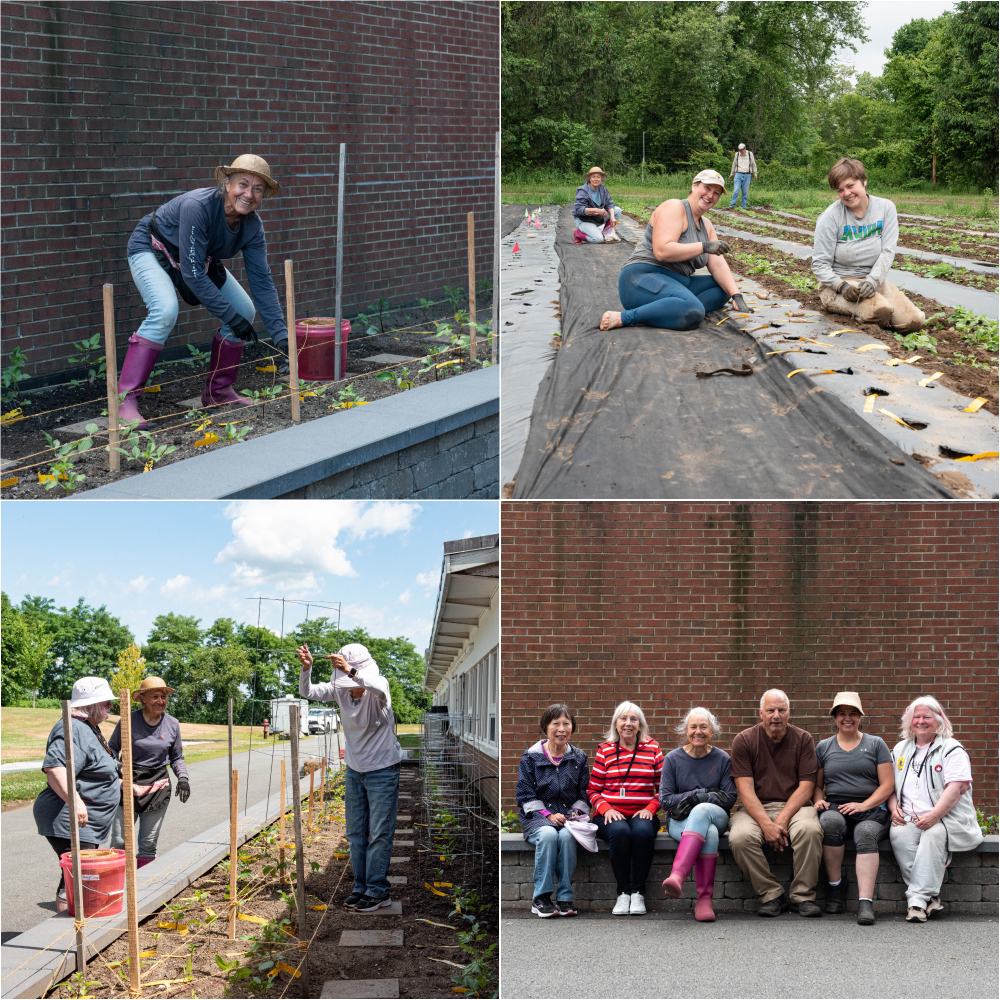
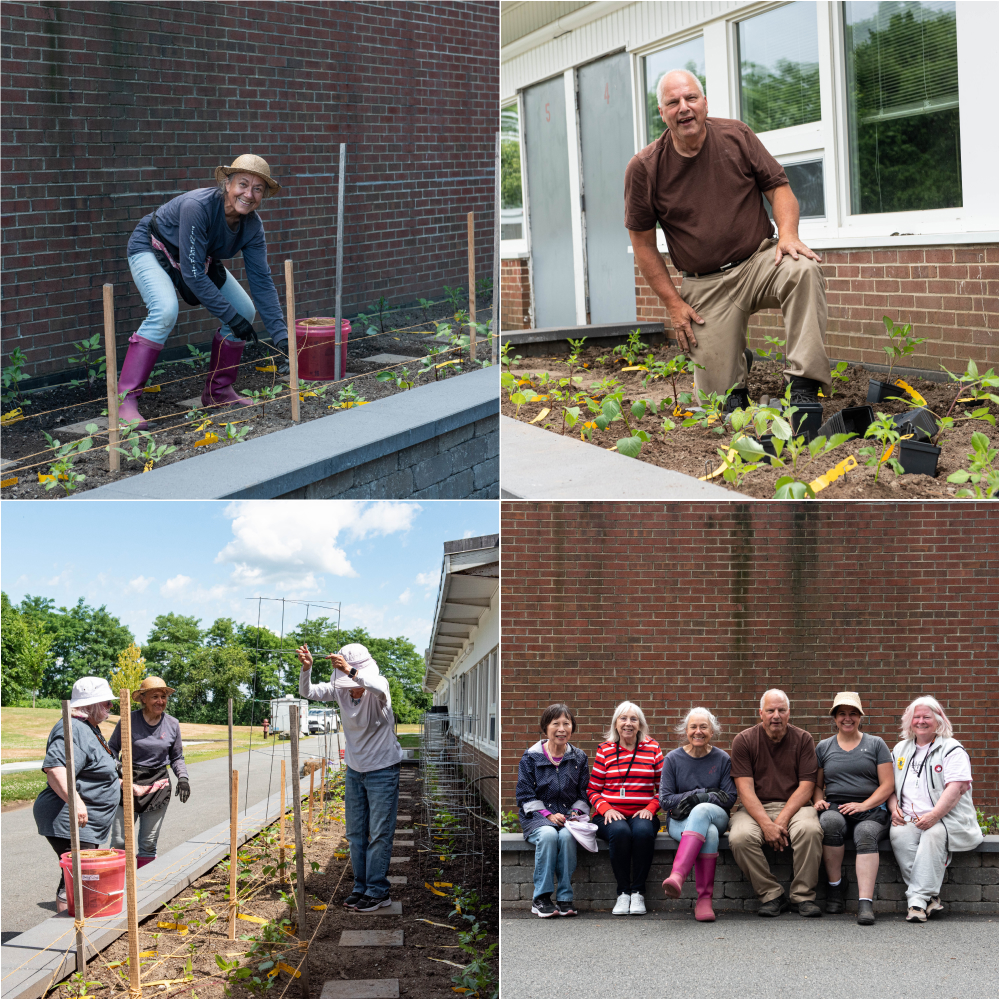
newsletter updates

Changed region(s): [[0.496, 0.0, 1.0, 0.496]]

diff --git a/202206/20220627_newsletter/20220627_newsletter.html b/202206/20220627_newsletter/20220627_newsletter.html
@@ -290,11 +290,11 @@
                               </p>
                               <hr class="divider" />
                               <p>
-                                We just had a fantastic Zoom meeting. Our
-                                special guests were dahlia virus expert Dr. Hanu
-                                Pappu of Washington State University, and Ron
-                                Miner, Chair of the ADS Virus Research Team. Dr.
-                                Pappu shared a wealth of information with us
+                                We just had a fantastic Zoom meeting in June.
+                                Our special guests were dahlia virus expert Dr.
+                                Hanu Pappu of Washington State University, and
+                                Ron Miner, Chair of the ADS Virus Research Team.
+                                Dr. Pappu shared a wealth of information with us
                                 about dahlia virus and the ways viruses can be
                                 transmitted from plant to plant, showed us
                                 photos of some of the most common symptoms of
@@ -317,20 +317,25 @@
                                 donation of $200 to the ADS Virus Research
                                 Project. We are glad to support the work of Dr.
                                 Pappu and his research lab at Washington State
-                                University, and the ADS Virus Research Team. We
-                                recorded the meeting and presentations for those
-                                of you who weren't able to attend or who want to
-                                see it again, and we recommend it. So much good
-                                information was shared. The recording is now
-                                available in our 2022 past Zoom recordings
-                                folder.** Concluding the program YDS raffled off
-                                a pair of Flart Silky Teflon Floral Snips to a
-                                lucky member who attended the meeting, as part
-                                of the effort to promote the practice of
-                                disinfecting our tools between plants. Amy Liss
-                                was the lucky winner of the Flart Floral Snips.
-                                Nice score, Amy!
+                                University, and the ADS Virus Research Team.
+                                Concluding the program YDS raffled off a pair of
+                                Flart Silky Teflon Floral Snips to a lucky
+                                member who attended the meeting, as part of the
+                                effort to promote the practice of disinfecting
+                                our tools between plants. Amy Liss was the lucky
+                                winner of the Flart Floral Snips. Nice score,
+                                Amy!
                               </p>
+                              <p>
+                                We recorded the meeting and presentations for
+                                those of you who weren't able to attend or who
+                                want to see it again, and we recommend it. So
+                                much good information was shared. The recording
+                                is now available in our 2022 past Zoom
+                                recordings folder.*
+                              </p>
+                              <img src="intro-3.jpg" width="100%" />
+                              <hr class="divider" />
                               <img src="intro-2.jpg" width="100%" />
                               <hr class="divider" />
                               <p>
@@ -377,10 +382,13 @@
                               <p>
                                 <small
                                   ><em
-                                    >**Not sure how to access our 2022 Zoom
-                                    recordings folder? Send us an email Subject
-                                    Line: I’d like to watch the presentation by
-                                    Dr. Pappu</em
+                                    >*Need help accessing the Zoom recordings
+                                    folder? Send us an email Subject Line: I’d
+                                    like to watch the presentation by Dr.
+                                    PappuNeed help accessing the Zoom recordings
+                                    folder? Send us an email Subject Line: I’d
+                                    like to watch the presentation by Dr.
+                                    Pappu</em
                                   ></small
                                 >
                               </p>
@@ -397,8 +405,8 @@
                                 July 16th Meeting
                               </h4>
                               <h1>
-                                Garden Tour: Lilies and Early Dahlias with YDS
-                                Member Roy Christoph
+                                Early Dahlia Garden Preview & Lily Garden Tour
+                                with YDS Member Roy Christoph
                               </h1>
                               <img
                                 src="lily-garden.jpg"
@@ -406,7 +414,12 @@
                                 style="margin-top: 1rem"
                               />
                               <p>
-                                <small><em>Photo by Misty Florez</em></small>
+                                <small
+                                  ><em
+                                    >Photos by Misty Florez and Roy
+                                    Christoph</em
+                                  ></small
+                                >
                               </p>
                               <hr class="divider" />
                               <p>
@@ -447,7 +460,13 @@
                               </p>
                               <p class="event__details">
                                 <strong>Date & Time:</strong> Saturday, July
-                                16th, *10:00am - 1:45pm (EST)
+                                16th*, 10:00am - 1:30pm (EST)<br />
+                                <em
+                                  >*Please note the change of date to a week
+                                  earlier. The lilies are opening up quickly and
+                                  we want to see them at peak bloom. Hope you
+                                  can make it!</em
+                                >
                               </p>
                               <p class="event__details">
                                 <strong>Rain Date:</strong>
@@ -548,7 +567,7 @@
                                     fill="#c65a60"
                                     style="fill: #c65a60"
                                   />
-                                  @flowersat60worcester</a
+                                  flowersat60worcester</a
                                 >
                               </p>
                               <p>
@@ -916,7 +935,7 @@
                               <img src="experiment-a.jpg" width="100%" />
                               <p>
                                 <small
-                                  ><b>A: Root Riot Cubes</b><br />
+                                  ><b>Root Riot Cubes</b><br />
                                   <em>Photo by Andrea Campbell</em></small
                                 >
                               </p>
@@ -925,7 +944,7 @@
                               <p>
                                 <small
                                   ><b
-                                    >B: Gary Miner’s Recipe Mix: ⅓ play sand, ⅓
+                                    >Gary Miner’s Recipe Mix: ⅓ play sand, ⅓
                                     perlite, ⅓ vermiculite</b
                                   ><br />
                                   <em>Photo by Andrea Campbell</em></small
@@ -935,7 +954,7 @@
                               <img src="experiment-c.jpg" width="100%" />
                               <p>
                                 <small
-                                  ><b>C: Stonewool Starter Cubes</b><br />
+                                  ><b>Stonewool Starter Cubes</b><br />
                                   <em>Photo by Andrea Campbell</em></small
                                 >
                               </p>
@@ -982,29 +1001,12 @@
                             <td>
                               <h1 style="margin-bottom: 1rem">
                                 Member Post from Social Media:
-                                @raine.brings.flowers (Taliesin Amero; Windsor,
-                                Maine)
+                                @raine.brings.flowers
                               </h1>
-                              <img src="tali-amero-1.jpg" width="100%" />
-                              <p>
-                                <small><b>May 14th</b><br /> </small>
-                              </p>
-                              <hr class="divider" />
-                              <img src="tali-amero-2.jpg" width="100%" />
-                              <p>
-                                <small><b>May 24th</b><br /> </small>
-                              </p>
-                              <hr class="divider" />
-                              <img src="tali-amero-3.jpg" width="100%" />
-                              <p>
-                                <small><b>June 3rd</b><br /> </small>
-                              </p>
-                              <hr class="divider" />
-                              <img src="tali-amero-4.jpg" width="100%" />
-                              <p>
-                                <small><b>June 28th</b><br /> </small>
-                              </p>
-                              <hr class="divider" />
+                              <h3 style="margin-bottom: 1rem">
+                                Taliesin Amero (Windsor, Maine)
+                              </h3>
+                              <img src="tali-amero.jpg" width="100%" />
                               <p>
                                 <small><em>Photos by Tali Amero </em></small>
                               </p>
@@ -1023,9 +1025,8 @@
                                     fill="#c65a60"
                                     style="fill: #c65a60"
                                   />
-                                  @raine.brings.flowers</a
+                                  raine.brings.flowers</a
                                 >
-                                on Instagram
                               </p>
                               <hr class="divider" />
                               <p>
@@ -1034,7 +1035,7 @@
                                 bloom this week! Follow Tali on IG and see all
                                 the beautiful dahlias she's growing this year.
                                 Be sure to share your first bloom of the season
-                                with us and tag #YDSfirstdahlia2022
+                                with us and tag <b>#YDSfirstdahliabloom2022</b>
                               </p>
                             </td>
                           </tr>
@@ -1087,6 +1088,7 @@
                               </p>
                               <hr class="divider" />
                               <img src="volunteers-4.jpg" width="100%" />
+                              <img src="volunteers-6.jpg" width="100%" />
                               <p>
                                 <small
                                   ><b>Maplebrook Farmstead</b><br />
@@ -1104,6 +1106,17 @@
                                   ><b>Grounded Flowers</b><br />
                                   <em
                                     >Emily Round, Jenn, Misty Florez & Carol
+                                    Palmer</em
+                                  ></small
+                                >
+                              </p>
+                              <hr class="divider" />
+                              <img src="volunteers-7.jpg" width="100%" />
+                              <p>
+                                <small
+                                  ><b>Peterfields Farm</b><br />
+                                  <em
+                                    >Justine Muir, Misty Florez & Carol
                                     Palmer</em
                                   ></small
                                 >
@@ -1131,16 +1144,6 @@
                                 <li>Kira Snyder</li>
                                 <li>Corinne Walker</li>
                                 <li>Jessica Wilke</li>
-                                <li>
-                                  <b
-                                    >Woburn Senior Center Garden Club Members</b
-                                  >
-                                  <ul class="short-list">
-                                    <li>Barbara</li>
-                                    <li>Katherine</li>
-                                    <li>Mitzi</li>
-                                  </ul>
-                                </li>
                               </ul>
                             </td>
                           </tr>
